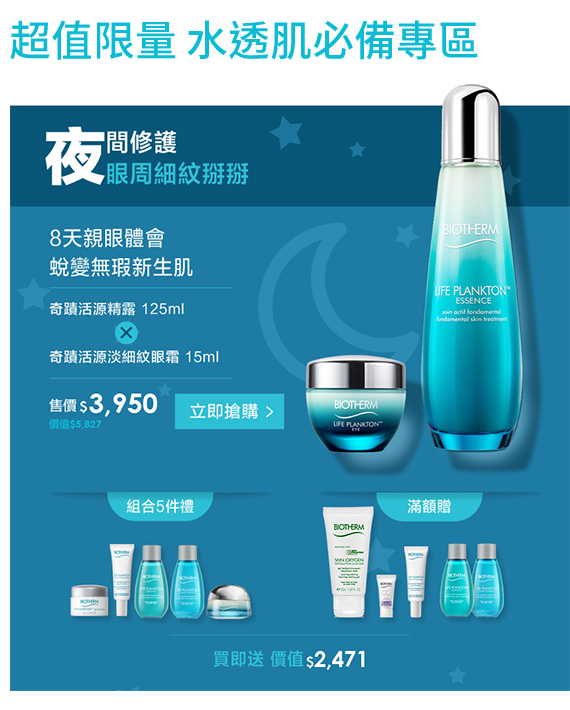
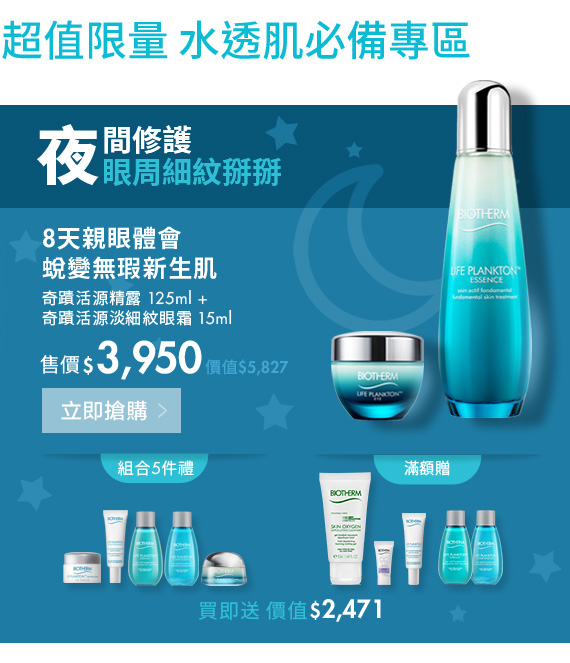
190614

diff --git a/190610/index.html b/190610/index.html
@@ -17,7 +17,7 @@
         </tr>
         <tr>
             <td>
-                <img src="https://jw-ddp.github.io/biotherm-yahoo/190610/0610-02.jpg" width="1140" height="570">
+                <img src="https://jw-ddp.github.io/biotherm-yahoo/190610/0610-02.jpg" width="1140" height="255">
             </td>
         </tr>
         <tr>
@@ -29,15 +29,15 @@
             <td>
                 <table cellpadding="0" cellspacing="0" border="0">
                     <tr>
-                        <td><a href="https://reurl.cc/eblLL" target="_brank"><img src="https://jw-ddp.github.io/biotherm-yahoo/190610/0610-04.jpg" width="570" height="710"></a></td>
-                        <td><a href="https://reurl.cc/9AN7x" target="_brank"><img src="https://jw-ddp.github.io/biotherm-yahoo/190610/0610-05.jpg" width="570" height="710"></a></td>
+                        <td><a href="https://reurl.cc/eblLL" target="_brank"><img src="https://jw-ddp.github.io/biotherm-yahoo/190610/0610-04.jpg" width="570" height="633"></a></td>
+                        <td><a href="https://reurl.cc/9AN7x" target="_brank"><img src="https://jw-ddp.github.io/biotherm-yahoo/190610/0610-05.jpg" width="570" height="633"></a></td>
                     </tr>
                 </table>
             </td>
         </tr>
         <tr>
             <td>
-                <a href="https://reurl.cc/LgXXx" target="_brank"><img src="https://jw-ddp.github.io/biotherm-yahoo/190610/0610-06.jpg" width="1140" height="930"></a>
+                <a href="https://reurl.cc/LgXXx" target="_brank"><img src="https://jw-ddp.github.io/biotherm-yahoo/190610/0610-06.jpg" width="1140" height="763"></a>
             </td>
         </tr>
         <tr>
@@ -47,12 +47,12 @@
         </tr>
         <tr>
             <td>
-                <a href="https://reurl.cc/aggr4" target="_brank"><img src="https://jw-ddp.github.io/biotherm-yahoo/190610/0610-08.jpg" width="1140" height="675"></a>
+                <a href="https://reurl.cc/aggr4" target="_brank"><img src="https://jw-ddp.github.io/biotherm-yahoo/190610/0610-08.jpg" width="1140" height="570"></a>
             </td>
         </tr>
         <tr>
             <td>
-                <a href="https://reurl.cc/7Njjk" target="_brank"><img src="https://jw-ddp.github.io/biotherm-yahoo/190610/0610-09.jpg" width="1140" height="1430"></a>
+                <a href="https://reurl.cc/7Njjk" target="_brank"><img src="https://jw-ddp.github.io/biotherm-yahoo/190610/0610-09.jpg" width="1140" height="978"></a>
             </td>
         </tr>
         <tr>
